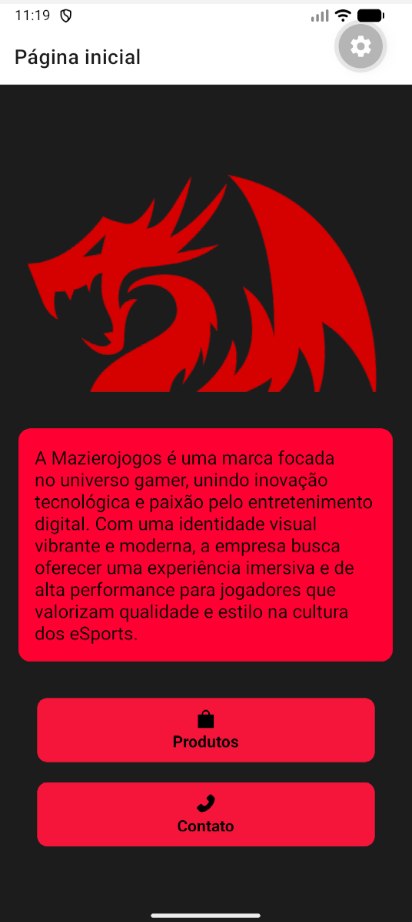
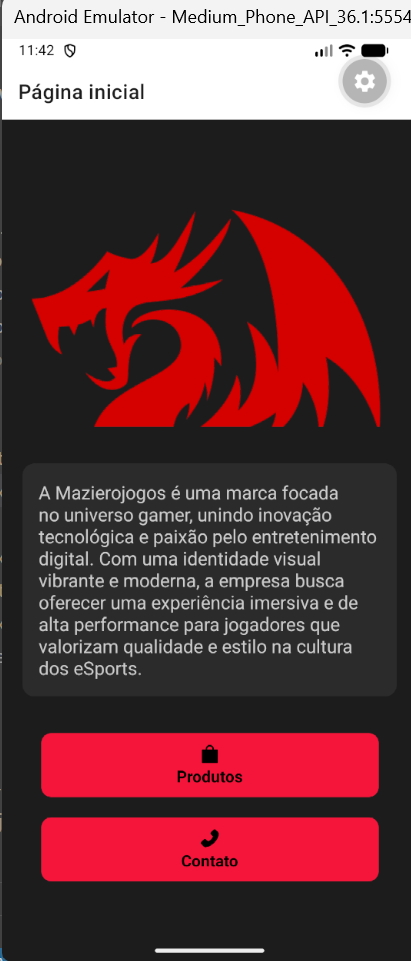
Final

diff --git a/src/pages/Produtos/index.js b/src/pages/Produtos/index.js
@@ -1,8 +1,12 @@
 import { StatusBar } from 'expo-status-bar';
-import { StyleSheet, Text, View, Image, TouchableOpacity, TextInput, ScrollView } from 'react-native';
+import { StyleSheet, Text, View, Image, TouchableOpacity, TextInput, ScrollView, Alert } from 'react-native';
 import { SafeAreaView } from 'react-native-safe-area-context';
 
 export default function Contato() {
+
+  const mensagem = () => {
+    Alert.alert('Sucesso', 'Produto adicionado ao carrinho');
+  };
   return (
     <SafeAreaView style={styles.container}>
       <ScrollView contentContainerStyle={{ gap: 12, paddingBottom: 20 }}>
@@ -12,10 +16,10 @@ export default function Contato() {
             style={styles.image}
           />
 
-          <View style={styles.info}>
+          <View style={styles.infoProduto}>
             <Text style={styles.titulo}>Teclado Mecânico Branco</Text>
             <Text style={styles.preco}>R$300,00</Text>
-            <Text style={styles.pix}>Valor PIX: R$280,00</Text>
+            <Text style={styles.preco}>Valor PIX: R$280,00</Text>
 
             <TextInput
               placeholder='Quantidade desejada'
@@ -24,8 +28,8 @@ export default function Contato() {
               style={styles.input}
             />
 
-            <TouchableOpacity style={styles.botao}>
-              <Text style={styles.botaoTexto}>Comprar</Text>
+            <TouchableOpacity style={styles.botao} onPress={mensagem}>
+              <Text style={styles.botaoTexto}>Adicionar ao carrinho</Text>
             </TouchableOpacity>
           </View>
         </View>
@@ -35,10 +39,10 @@ export default function Contato() {
             style={styles.image}
           />
 
-          <View style={styles.info}>
+          <View style={styles.infoProduto}>
             <Text style={styles.titulo}>Teclado Membrana Preto</Text>
             <Text style={styles.preco}>R$220,00</Text>
-            <Text style={styles.pix}>Valor PIX: R$200,00</Text>
+            <Text style={styles.preco}>Valor PIX: R$200,00</Text>
 
             <TextInput
               placeholder='Quantidade desejada'
@@ -47,8 +51,8 @@ export default function Contato() {
               style={styles.input}
             />
 
-            <TouchableOpacity style={styles.botao}>
-              <Text style={styles.botaoTexto}>Comprar</Text>
+            <TouchableOpacity style={styles.botao} onPress={mensagem}>
+              <Text style={styles.botaoTexto}>Adicionar ao carrinho</Text>
             </TouchableOpacity>
           </View>
         </View>
@@ -58,10 +62,10 @@ export default function Contato() {
             style={styles.image}
           />
 
-          <View style={styles.info}>
+          <View style={styles.infoProduto}>
             <Text style={styles.titulo}>Mouse</Text>
             <Text style={styles.preco}>R$200,00</Text>
-            <Text style={styles.pix}>Valor PIX: R$180,00</Text>
+            <Text style={styles.preco}>Valor PIX: R$180,00</Text>
 
             <TextInput
               placeholder='Quantidade desejada'
@@ -70,8 +74,8 @@ export default function Contato() {
               style={styles.input}
             />
 
-            <TouchableOpacity style={styles.botao}>
-              <Text style={styles.botaoTexto}>Comprar</Text>
+            <TouchableOpacity style={styles.botao} onPress={mensagem}>
+              <Text style={styles.botaoTexto}>Adicionar ao carrinho</Text>
             </TouchableOpacity>
           </View>
         </View>
@@ -81,10 +85,10 @@ export default function Contato() {
             style={styles.image}
           />
 
-          <View style={styles.info}>
+          <View style={styles.infoProduto}>
             <Text style={styles.titulo}>Teclado Magnético Preto</Text>
             <Text style={styles.preco}>R$400,00</Text>
-            <Text style={styles.pix}>Valor PIX: R$360,00</Text>
+            <Text style={styles.preco}>Valor PIX: R$360,00</Text>
 
             <TextInput
               placeholder='Quantidade desejada'
@@ -93,8 +97,8 @@ export default function Contato() {
               style={styles.input}
             />
 
-            <TouchableOpacity style={styles.botao}>
-              <Text style={styles.botaoTexto}>Comprar</Text>
+            <TouchableOpacity style={styles.botao} onPress={mensagem}>
+              <Text style={styles.botaoTexto}>Adicionar ao carrinho</Text>
             </TouchableOpacity>
           </View>
         </View>
@@ -104,10 +108,10 @@ export default function Contato() {
             style={styles.image}
           />
 
-          <View style={styles.info}>
+          <View style={styles.infoProduto}>
             <Text style={styles.titulo}>Teclado Mecânico Preto</Text>
             <Text style={styles.preco}>R$300,00</Text>
-            <Text style={styles.pix}>Valor PIX: R$280,00</Text>
+            <Text style={styles.preco}>Valor PIX: R$280,00</Text>
 
             <TextInput
               placeholder='Quantidade desejada'
@@ -116,8 +120,8 @@ export default function Contato() {
               style={styles.input}
             />
 
-            <TouchableOpacity style={styles.botao}>
-              <Text style={styles.botaoTexto}>Comprar</Text>
+            <TouchableOpacity style={styles.botao} onPress={mensagem}>
+              <Text style={styles.botaoTexto}>Adicionar ao carrinho</Text>
             </TouchableOpacity>
           </View>
         </View>
@@ -148,7 +152,7 @@ const styles = StyleSheet.create({
     borderRadius: 12
   },
 
-  info: {
+  infoProduto: {
     flex: 1,
     gap: 6
   },
@@ -157,11 +161,6 @@ const styles = StyleSheet.create({
     color: '#fff',
     fontSize: 18,
     fontWeight: 'bold'
-  },
-
-  pix: {
-    color: '#00ff88',
-    fontSize: 14
   },
 
   input: {

diff --git a/src/pages/Contato/index.js b/src/pages/Contato/index.js
@@ -5,35 +5,40 @@ import { AntDesign } from '@expo/vector-icons';
 export default function Contato() {
   return (
     <SafeAreaView style={styles.container}>
-      
+
       <Text style={styles.titulo}>Contato</Text>
 
       <View style={styles.card}>
         <Text style={styles.nomeLoja}>Maziero Jogos</Text>
 
-        <View style={styles.linha}>
+        <View style={styles.textoInfo}>
           <AntDesign name="environment" size={18} color="#ccc" />
-          <Text style={styles.info}> Campinas - SP</Text>
+          <Text style={styles.texto}> Campinas - SP</Text>
         </View>
 
-        <View style={styles.linha}>
+        <View style={styles.textoInfo}>
           <AntDesign name="clock-circle" size={18} color="#ccc" />
-          <Text style={styles.info}> Seg - Sex: 9h às 18h</Text>
+          <Text style={styles.texto}> Seg - Sex: 6h às 19h</Text>
         </View>
 
-        <View style={styles.linha}>
+        <View style={styles.textoInfo}>
           <AntDesign name="phone" size={18} color="#ccc" />
-          <Text style={styles.info}> (11) 99999-9999</Text>
+          <Text style={styles.texto}> (67) 66666-6666</Text>
         </View>
 
-        <View style={styles.linha}>
+        <View style={styles.textoInfo}>
           <AntDesign name="whats-app" size={18} color="#ccc" />
-          <Text style={styles.info}> WhatsApp: (11) 99999-9999</Text>
+          <Text style={styles.texto}> WhatsApp: (67) 77777-7777</Text>
         </View>
 
-        <View style={styles.linha}>
+        <View style={styles.textoInfo}>
           <AntDesign name="mail" size={18} color="#ccc" />
-          <Text style={styles.info}> contato@loja.com</Text>
+          <Text style={styles.texto}> mazierojogos@gmail.com</Text>
+        </View>
+
+        <View style={styles.textoInfo}>
+          <AntDesign name="idcard" size={18} color="#ccc" />
+          <Text style={styles.texto}> CNPJ: 12.345.678/0001-95</Text>
         </View>
       </View>
 
@@ -71,13 +76,13 @@ const styles = StyleSheet.create({
     marginBottom: 10
   },
 
-  linha: {
+  textoInfo: {
     flexDirection: 'row',
     alignItems: 'center'
   },
 
-  info: {
+  texto: {
     color: '#ccc',
-    fontSize: 14
+    fontSize: 18
   }
 });

diff --git a/src/pages/Home/index.js b/src/pages/Home/index.js
@@ -13,8 +13,8 @@ export default function Home() {
 
       <Image source={require('../../../assets/logo.png')} style={{ width: '95%', height: '30%' }}></Image>
 
-      <View style={{padding: 16, backgroundColor: '#ff0033', borderRadius: 12}}>
-        <Text style={{ fontSize: 18, color: '#000000' }}>
+      <View style={{padding: 16, backgroundColor: '#2b2b2b', borderRadius: 12}}>
+        <Text style={{ fontSize: 18, color: '#ccc' }}>
           A Mazierojogos é uma marca focada no universo gamer, unindo inovação tecnológica e paixão pelo entretenimento digital. Com uma identidade visual vibrante e moderna, a empresa busca oferecer uma experiência imersiva e de alta performance para jogadores que valorizam qualidade e estilo na cultura dos eSports.
         </Text>
       </View>
